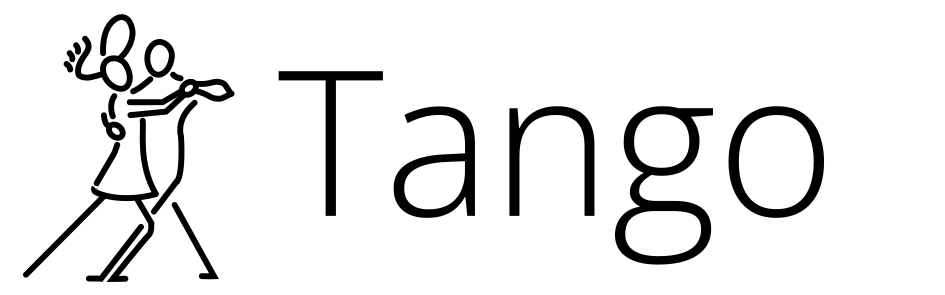
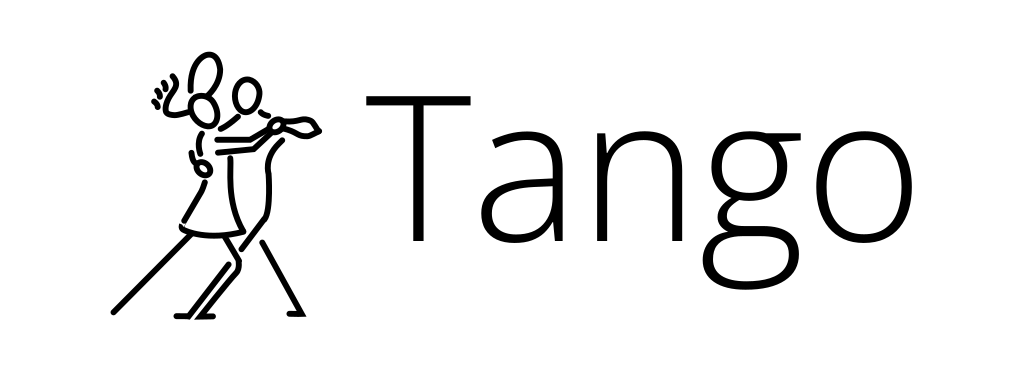
Slight adjustments in readme text & images

diff --git a/readme.md b/readme.md
@@ -1,6 +1,5 @@
-<center><img src="images/tango_and_text.png" width=400></center>
-
-<center><p><i>"It takes two (processes) to Tango"</i></p></center>
+<p align="center"><img src="images/tango_and_text.png" width=400></p>
+<p align="center"><i>"It takes two (processes) to Tango"</i></p>
 
 # Tango RFC
 
@@ -27,7 +26,7 @@ env.close()
 ...for _live training_ and _fast deployment_ to **External Environments** (such as game engines, programmable robotics or IoT hardware, web crawlers, stock market intefaces, and more!)
 
 
-<center><img src="images/tango_example.gif"></center>
+<p align="center"><img src="images/tango_example.gif"></p>
 
 _The Sokoban example is based on the [Phaser tutorial](https://phaser.io/news/2018/02/phaser-3-sokoban-tutorial) originally by [Emanuele Feronato](https://www.emanueleferonato.com/2018/02/09/phaser-3-version-of-the-html5-swipe-controlled-sokoban-game/)_
 
@@ -141,7 +140,7 @@ Both the ML code and the External Environment can connect to the Tango Gateway S
 
 Messages pass in an RPC-like manner from the ML code to the External Environment and back via the Tango Gateway Server in the following manner:
 
-<center><img src="images/tango_routing.drawio.png"></center>
+<p align="center"><img src="images/tango_routing.drawio.png"></p>
 
 All messages in the current version are in JSON.
 
